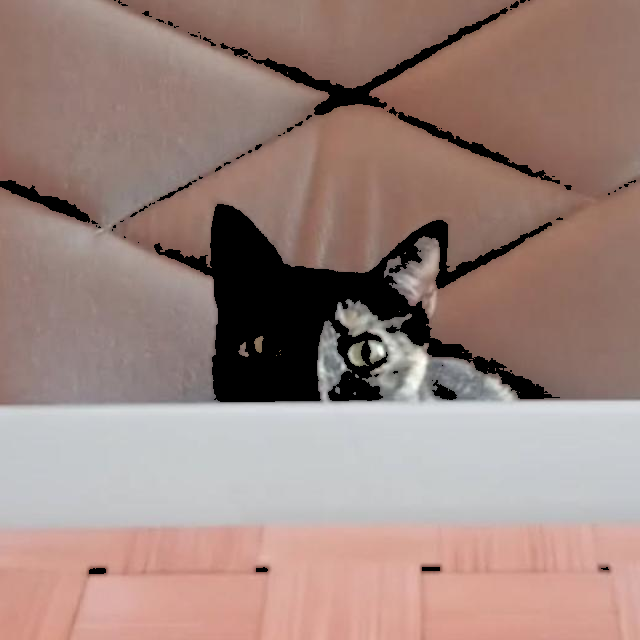
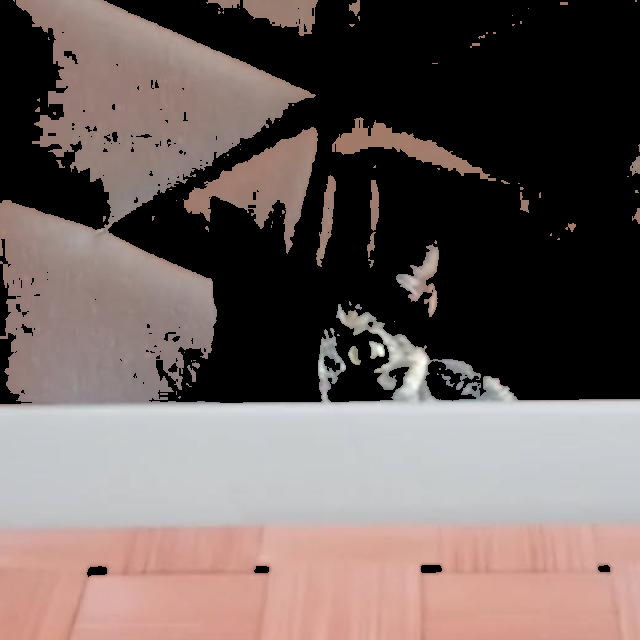
simple image manipulation stuff

diff --git a/src/unidade1/imagem.rs b/src/unidade1/imagem.rs
@@ -1,0 +1,29 @@
+use sdl2::{image::ImageRWops, rwops::RWops, surface::Surface};
+
+pub fn load_png(filename: &str) -> Surface<'static> {
+    RWops::from_file(filename, "r").unwrap().load_png().unwrap()
+}
+
+pub fn get_pixel(img: &Surface<'static>, x: u32, y: u32) -> [u8; 3] {
+    let index = (img.width() * y + x) as usize;
+    let pixels = img.without_lock().unwrap();
+    [pixels[index], pixels[index + 1], pixels[index + 2]]
+}
+
+pub fn set_pixel(img: &mut Surface<'static>, x: u32, y: u32, color: [u8; 3]) {
+    let index = (img.width() * y + x) as usize;
+    let pixels = img.without_lock_mut().unwrap();
+    pixels[index] = color[0];
+    pixels[index + 1] = color[1];
+    pixels[index + 2] = color[2];
+}
+
+pub fn px_avg(pixel: &[u8]) -> u32 {
+    (pixel[0] as u32 + pixel[1] as u32 + pixel[2] as u32) / 3
+}
+
+pub fn px_set(pixel: &mut [u8], r: u8, g: u8, b: u8) {
+    pixel[0] = r;
+    pixel[1] = g;
+    pixel[2] = b;
+}

diff --git a/examples/pimagem.rs b/examples/pimagem.rs
@@ -1,17 +1,13 @@
-use sdl2::{image::{ImageRWops, SaveSurface}, pixels::{self, PixelFormat, PixelFormatEnum}, rwops::{self, RWops}, surface::Surface};
+use sdl2::image::SaveSurface;
+use trabalho_final::unidade1::imagem::*;
 
 fn main() {
-    let mut img = RWops::from_file("img1.png", "r").unwrap().load_png().unwrap();
+    let mut img = load_png("img1.png");
 
-    img.convert_format(PixelFormatEnum::RGB888).unwrap();
-    let pixels: &mut [u8] = img.without_lock_mut().unwrap();
-
-    for pixel in pixels.chunks_mut(3) {
-        let avg = (pixel[0] as u32 + pixel[1] as u32 + pixel[2] as u32)/3;
-        if avg < 100 {
-            pixel[0] = 0;
-            pixel[1] = 0;
-            pixel[2] = 0;
+    let pixels = img.without_lock_mut().unwrap().chunks_mut(3);
+    for pixel in pixels {
+        if px_avg(pixel) < 128 {
+            px_set(pixel, 0, 0,0 );
         }
     }
 
